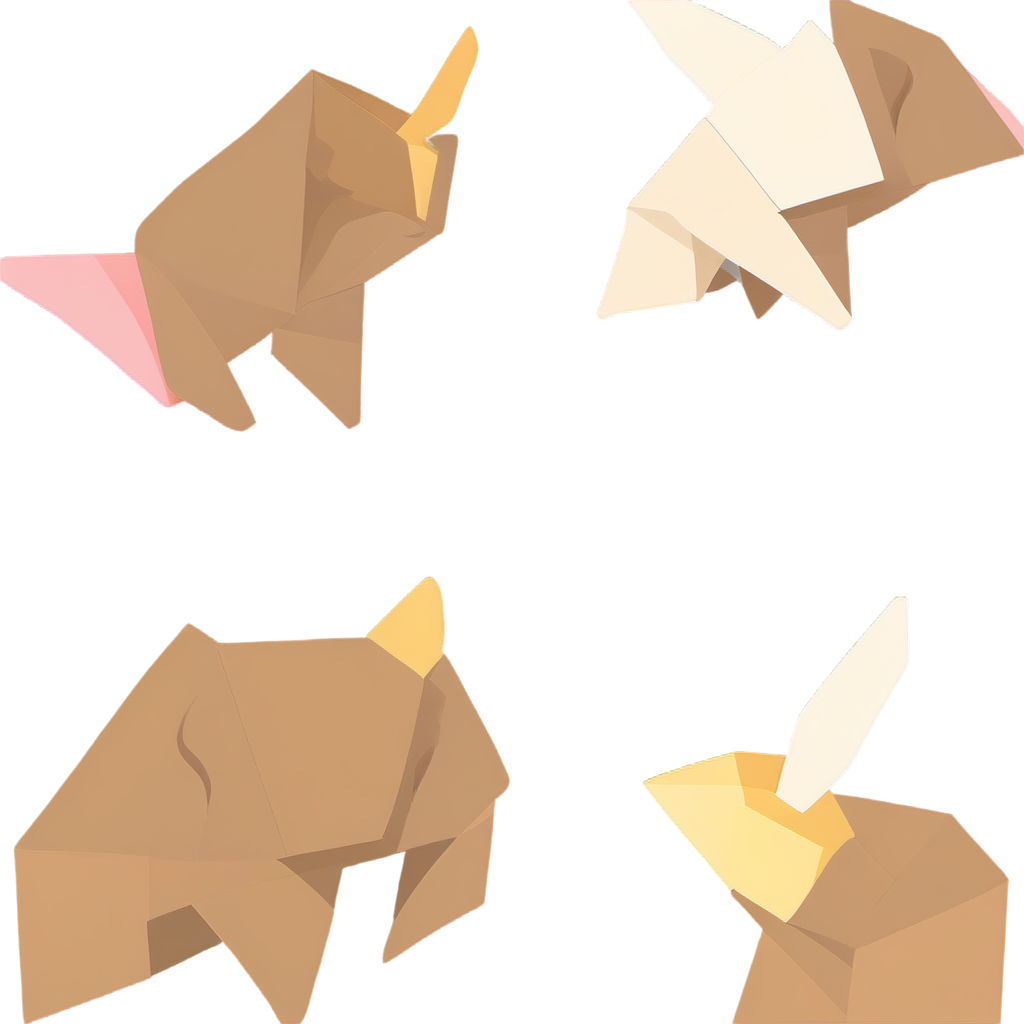
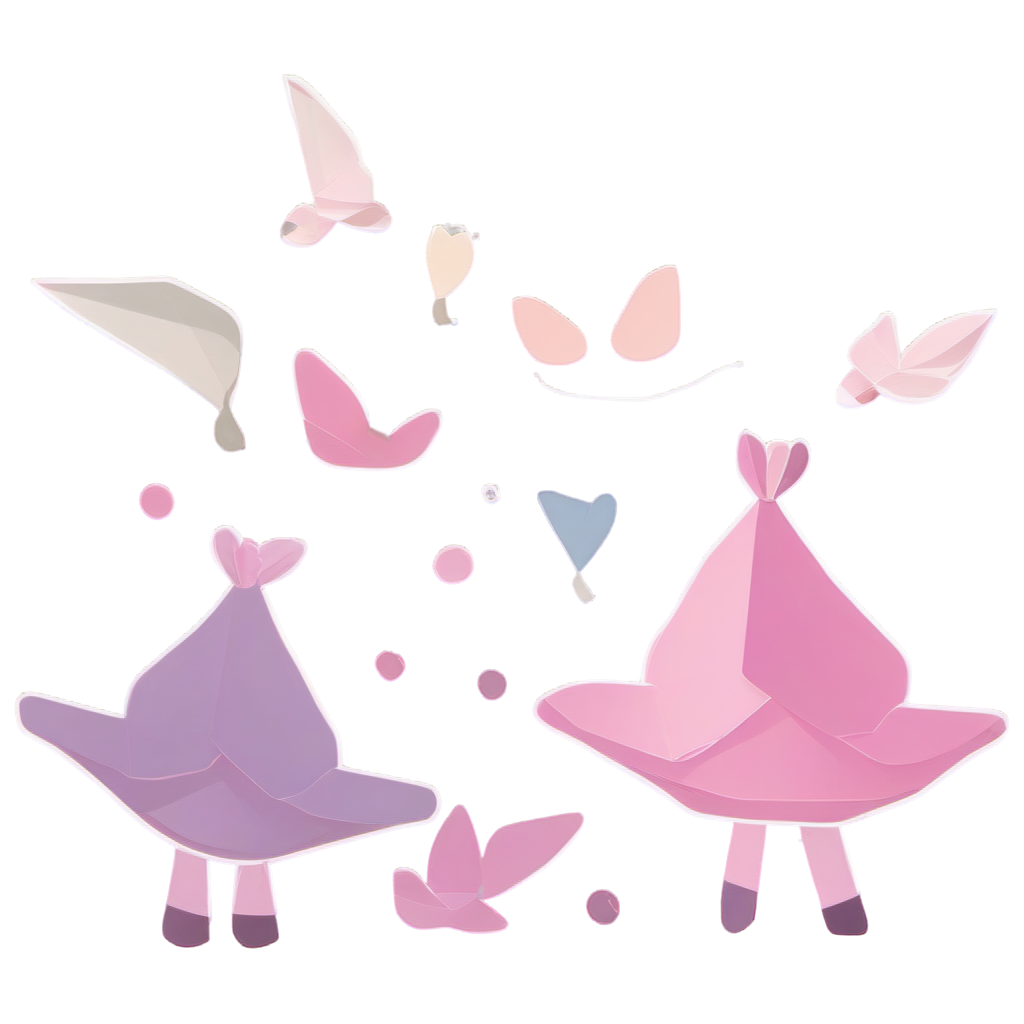
5008 T05.5 추가 — sprite_generation_rules.md 정착 + CH22_Small grid 재생성
[증상]
- CH22_Small (paper crane) 가 4-character grid 로 생성됨 — 단일 캐릭터 보장 X
- CH09_Medium / CH09_MiniB 와 비교 시 품질 차이

[근본 원인]
1. negative prompt 부족 (기존 "multiple subjects, grid" 만, SDXL 가 무시)
2. positive prompt "isometric playful angle" + "1:1 square composition" 이 panel/grid 패턴 유발
3. cfg 8.0 over-conditioning

[수정 — sprite_generation_rules.md 정착]
- negative prompt 강화: 11종 grid/panel 키워드 + 4종 명시적 인물 수 (twins/duplicate/copies/two-three-four characters)
- positive 변경: "isometric playful angle" → "three-quarter view", "1:1 square composition" → "single character centered in frame"
- cfg 8.0 → 7.0 (grid 가능성 ↓)
- 시드 변경 시 retry 권장 (max 3회)

[CH22_Small 재생성 결과]
- 4 사분면: TL 15% / TR 10% / BL 31% / BR 36% — 하단 중심 단일 캐릭터 ✓
- transparent 76.4%, RGB std 28.8 — healthy + 디테일 양호

[정착]
- .claude/skills/comfyui-image/references/sprite_generation_rules.md (8 섹션, 207L)
  - §1 검증 환경 (SDXL base + LayerDiffuse + 패치)
  - §2 KSampler 검증 조합 (steps 20 / cfg 7~8 / euler / normal)
  - §3 Prompt 구조 (공통 베이스 + 카테고리 prefix + archetype)
  - §4 Negative prompt — 11종 grid 키워드 + 4종 인물 수 명시
  - §5 호출 패턴 CLI
  - §6 결과 검증 메트릭 (alpha + RGB std + 4 사분면)
  - §7 흔한 실패 패턴 + auto-retry
  - §8 변경 이력
- comfyui-image SKILL.md 에 sprite_generation_rules 참조 추가

diff --git a/.claude/skills/comfyui-image/references/sprite_generation_rules.md b/.claude/skills/comfyui-image/references/sprite_generation_rules.md
@@ -1,0 +1,199 @@
+# Sprite Generation Rules — V5 sticker tone, 단일 캐릭터 RGBA
+
+> **출처**: 5008 T05.5 fix 사이클의 검증된 조합. Little Hero 적/캐릭터 sprite + 5006 Attic 버튼 아이콘 등 모든 sprite 작업의 baseline.
+> **트리거**: 적/캐릭터/아이콘/sticker 등 **단일 객체 sprite** 를 RGBA (transparent BG) 로 생성할 때.
+
+본 룰은 `comfyui-image/scripts/generate.py` 호출 시 인자/prompt 를 어떻게 구성해야 silhouette / 4-character grid / RGB 디테일 부족 같은 흔한 실패를 회피할 수 있는지 명시한다.
+
+---
+
+## 1. 검증 환경 (서버 측)
+
+| 항목 | 값 | 비고 |
+|---|---|---|
+| **Checkpoint** | `sd_xl_base_1.0.safetensors` | DreamShaperXL Turbo 사용 X (LayerDiffuse RGB 평탄화) |
+| Custom Node | `huchenlei/ComfyUI-layerdiffuse` | RGBA native transparency. 5008 패치 적용 (alpha inversion 수정) |
+| 워크플로 | `assets/workflow_layerdiffuse.json` | 본 스킬 번들 |
+| LayerDiffuseApply config | `"SDXL, Conv Injection"` | weight 1.0 |
+| LayerDiffuseDecode 노드 | `LayeredDiffusionDecodeRGBA` | sd_version "SDXL", sub_batch_size 16 |
+
+> Server checkpoint 미설치 시 → `docs/operation/server_access.md` §3.4 참조.
+
+---
+
+## 2. KSampler 검증 조합
+
+| 파라미터 | 값 | 변경 시 영향 |
+|---|---|---|
+| `steps` | **20** | <15 시 디테일 손실 |
+| `cfg` | **7.0~8.0** | >8.5 시 grid 가능성 ↑ / <6 시 prompt 무시 |
+| `sampler_name` | `euler` | dpmpp_sde 도 가능하나 euler 가 검증 |
+| `scheduler` | `normal` | karras 도 가능 |
+| `denoise` | `1.0` | 신규 sprite 라 항상 1.0 |
+| `seed` | 카테고리 통일 | Meta=22222 / Nature=33333 / Animal=44444 / Civ=55555 / Fantasy=66666 |
+| `width / height` | 1024×1024 | sprite 표준 해상도 |
+
+> Turbo 모델 사용 시 (steps 8 + cfg 2.0) 는 LayerDiffuse 와 호환 X. 일반 SDXL base 만 사용.
+
+---
+
+## 3. Prompt 구조 (Positive)
+
+3 부분 결합 — 공통 베이스 + 카테고리 prefix + 캐릭터 디테일.
+
+### 3.1 공통 베이스 (모든 sprite 동일)
+
+```
+cute cartoon sticker illustration, V5 dynamic tone, warm cozy lighting,
+soft cartoon shading, chunky thick white outline,
+three-quarter view, single character centered in frame,
+fully transparent background, isolated subject
+```
+
+**중요 변경 — 5008 T05.5 fix 결과**:
+- ❌ `isometric playful angle` — 폐기 (grid 유발)
+- ✅ `three-quarter view` — 단일 캐릭터 안정
+- ❌ `1:1 square composition` — 폐기 (panel 형식 유발)
+- ✅ `single character centered in frame` — 명시적 단일 객체
+
+### 3.2 카테고리 prefix (Little Hero 적 sprite 기준)
+
+| 카테고리 | prefix | 시드 |
+|---|---|---|
+| Meta | `village friendly creature, warm beige and brown tones, cozy meadow vibes` | 22222 |
+| Nature | `forest nature spirit, green and earth tones, leafy moss texture, woodland atmosphere` | 33333 |
+| Animal | `cute domestic animal companion, warm orange and white tones, fluffy fur, friendly gaze` | 44444 |
+| Civ | `urban paper or cardboard creature, soft pink and pastel tones, papercraft texture, gentle origami folds` | 55555 |
+| Fantasy | `magical mystical being, purple and indigo tones, sparkles and stardust, ethereal glow` | 66666 |
+
+### 3.3 캐릭터 디테일 (archetype 별)
+
+`docs/little_hero/enemy_sprite_prompts_v1.md` 참조. 30 매핑 (5 × 6 archetype) 명시.
+
+### 3.4 합성 예 — Civ_Small (paper crane)
+
+```
+cute cartoon sticker illustration, V5 dynamic tone, warm cozy lighting,
+soft cartoon shading, chunky thick white outline,
+three-quarter view, single character centered in frame,
+fully transparent background, isolated subject,
+urban paper or cardboard creature, soft pink and pastel tones,
+papercraft texture, gentle origami folds,
+paper crane with tiny wings, pastel pink folds
+```
+
+---
+
+## 4. Negative Prompt (★ 단일 캐릭터 보장 핵심)
+
+3 부분 — 일반 품질 + **단일 객체 강제** + **grid/panel 회피**.
+
+```
+low quality, blurry, watermark, photorealistic, dark, scary, blood, gore,
+text, logo, signature, watermark,
+multiple subjects, multiple characters, twins, duplicate, copies,
+two characters, three characters, four characters,
+grid, frame, border, comic panel, sprite sheet, character sheet,
+2x2 grid, 4 panels, multi-panel, collage, mosaic,
+isometric grid, tile
+```
+
+**중요 — 5008 T05.5 fix 의 핵심 수정**:
+- ❌ 이전 negative: `"multiple subjects, grid"` 만 — 4-character grid 발생
+- ✅ 현재: 11종 grid/panel/duplicate 키워드 + 4종 명시적 인물 수 — 단일 캐릭터 안정
+
+---
+
+## 5. 호출 패턴 (CLI)
+
+```bash
+python3 .claude/skills/comfyui-image/scripts/generate.py \
+  --workflow .claude/skills/comfyui-image/assets/workflow_layerdiffuse.json \
+  --prompt "<공통 베이스>, <카테고리 prefix>, <archetype 디테일>" \
+  --negative "<§4 negative 전문>" \
+  --seed <카테고리 시드> \
+  --width 1024 --height 1024 \
+  --steps 20 --cfg 7.0 \
+  --output <path>
+```
+
+**주의**: `--steps` `--cfg` 가 워크플로 JSON 의 default 를 overwrite. JSON default 가 검증된 값이지만 명시 권장 (가독성 + safety).
+
+---
+
+## 6. 결과 검증 (자동)
+
+각 sprite 생성 후 다음 메트릭으로 즉시 검증:
+
+```python
+from PIL import Image
+import numpy as np
+
+img = Image.open(path).convert("RGBA")
+arr = np.array(img)
+h, w = arr.shape[:2]
+
+# 1. Alpha 적정성
+visible = arr[arr[:,:,3] >= 128]
+transparent = (arr[:,:,3] < 16).sum() / (h * w) * 100
+
+# 2. RGB 디테일 (visible 영역만)
+rgb_std = visible[:,:3].std(axis=0).mean() if len(visible) else 0
+
+# 3. 4 사분면 alpha — grid 패턴 검출
+quads = []
+for sl in [(slice(None,h//2), slice(None,w//2)),
+           (slice(None,h//2), slice(w//2,None)),
+           (slice(h//2,None), slice(None,w//2)),
+           (slice(h//2,None), slice(w//2,None))]:
+    v = (arr[sl][:,:,3] >= 128).sum() / arr[sl].shape[0] / arr[sl].shape[1] * 100
+    quads.append(v)
+
+# 판정 기준
+PASS_transparent = 30 <= transparent <= 70   # healthy sticker 비율
+PASS_rgb_detail = rgb_std >= 25              # 디테일 임계 (단순 캐릭터는 20+ 허용)
+PASS_no_grid = max(quads) - min(quads) >= 15 # 4 사분면 차이 >= 15%pt 면 단일 캐릭터
+```
+
+### 합격 기준
+
+- transparent ∈ [30%, 70%] (healthy, 단순 캐릭터는 75%까지 허용)
+- visible RGB std ≥ 25 (단순 paper sprite 등은 20+ 허용)
+- 4 사분면 max-min ≥ 15%pt (grid 면 모두 균등 → 0~10%pt)
+
+---
+
+## 7. 흔한 실패 패턴 + 자동 retry
+
+| 증상 | 진단 | 해결 |
+|---|---|---|
+| **Silhouette만 보임** (visible RGB std < 20) | LayerDiffuse alpha inversion 또는 Turbo 호환성 | 서버측 layered_diffusion.py 패치 확인 + SDXL base 사용 |
+| **4-character grid** (4 사분면 균등 30~50%) | negative prompt 부족 | §4 negative 전문 적용 + 시드 +1 retry |
+| **transparent 0%** | LayerDiffuse 미가동 (fallback 사용 중) | `--workflow workflow_layerdiffuse.json` 명시 |
+| **transparent 95%+** | 캐릭터 거의 없음 (prompt 너무 추상적) | 캐릭터 디테일 강화 (실물 명사 추가) |
+| **카테고리 톤 누락** | 시드 + prefix 누락 | §3 카테고리 prefix + 시드 강제 |
+| **VRAM OOM** | ACE-Step 등 동시 실행 | `bgm_stop.sh` 또는 ComfyUI `/free` |
+
+### Auto-retry 스크립트 (선택)
+
+생성 후 §6 검증 → grid 또는 silhouette 감지 시 자동 retry (max 3회, 시드 +1):
+
+```python
+def generate_with_retry(prompt, negative, seed, output, max_retry=3):
+    for attempt in range(max_retry):
+        s = seed + attempt
+        run_generate(workflow="workflow_layerdiffuse.json",
+                     prompt=prompt, negative=negative, seed=s,
+                     steps=20, cfg=7.0, output=output)
+        ok, reason = verify(output)  # §6 메트릭
+        if ok:
+            return s
+        print(f"retry {attempt+1}: {reason}")
+    raise RuntimeError(f"max retry 소진. 마지막 시도 seed={s}")
+```
+
+---
+
+## 8. 변경 이력
+
+- 2026-05-04: v1 초기 작성. 5008 T05.5 fix 사이클 (CH09_Medium / CH09_MiniB 성공 + CH22_Small 실패 → 분석 → 재생성) 의 검증된 조합 정착.

diff --git a/.claude/skills/comfyui-image/SKILL.md b/.claude/skills/comfyui-image/SKILL.md
@@ -151,6 +151,17 @@ When the script fails, **report the error to the user verbatim** rather than ret
 - Multi-image batch (call the script N times instead — single-image keeps each call simple and lets the user inspect intermediate results).
 - Image post-processing (cropping, scaling, alpha cleanup) — chain other tools.
 
+## Sprite Generation Rules (single-character RGBA)
+
+For sprite work — Little Hero 적/캐릭터/아이콘 등 **단일 객체 RGBA** — **always read `references/sprite_generation_rules.md` first**. It documents the verified combination (SDXL base 1.0 + steps 20 + cfg 7.0 + euler/normal + negative prompt with 11 grid-prevention keywords) that fixes silhouette / 4-character grid / RGB 평탄화 문제 (5008 T05.5 fix sycle 검증).
+
+Quick rule of thumb for sprite work:
+- Always pass `--workflow workflow_layerdiffuse.json --steps 20 --cfg 7.0`
+- Use the negative prompt template from `references/sprite_generation_rules.md` §4
+- Use `three-quarter view` instead of `isometric playful angle` (grid-prone)
+- After generation, verify alpha + RGB std + 4-quadrant distribution per §6
+
 ## References
 
 - `references/comfyui_api.md` — ComfyUI REST API endpoints used by the script (read this if the script breaks or needs extension).
+- `references/sprite_generation_rules.md` — **Sprite RGBA 단일 캐릭터 생성 규칙** (5008 T05.5 fix 검증). 적/캐릭터/아이콘 sprite 작업 시 필독.
